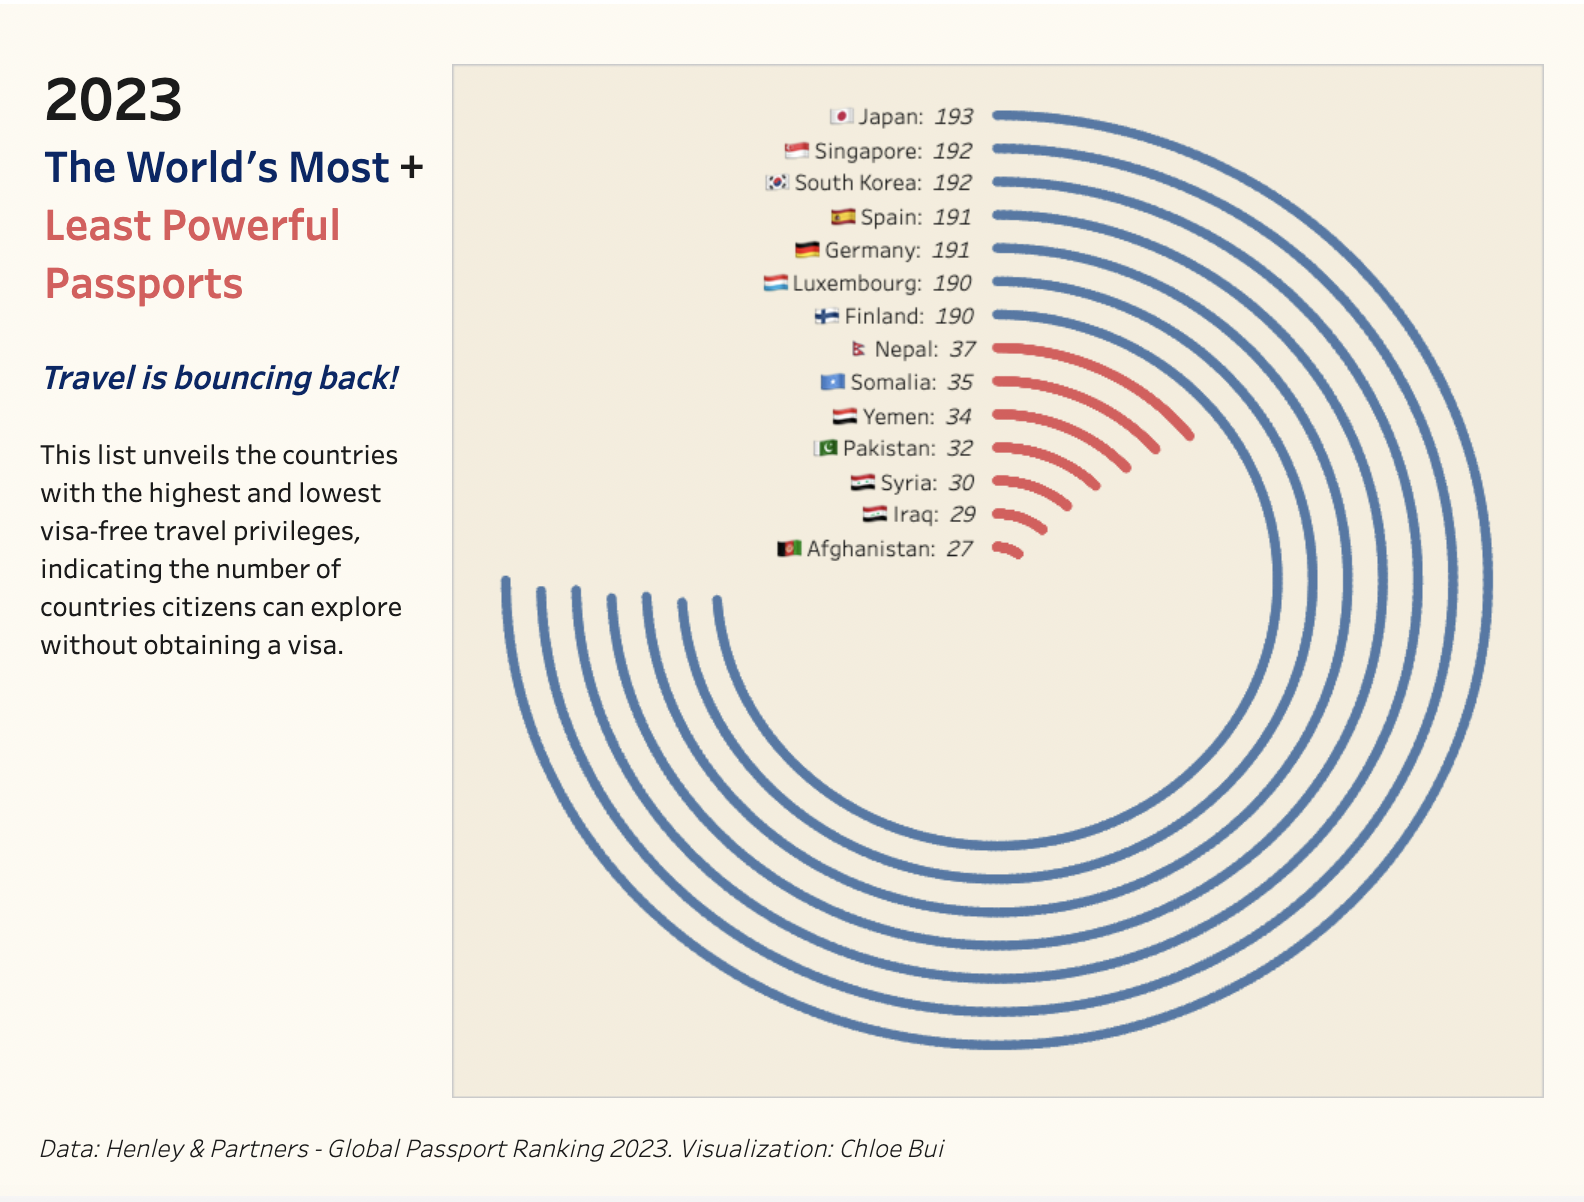
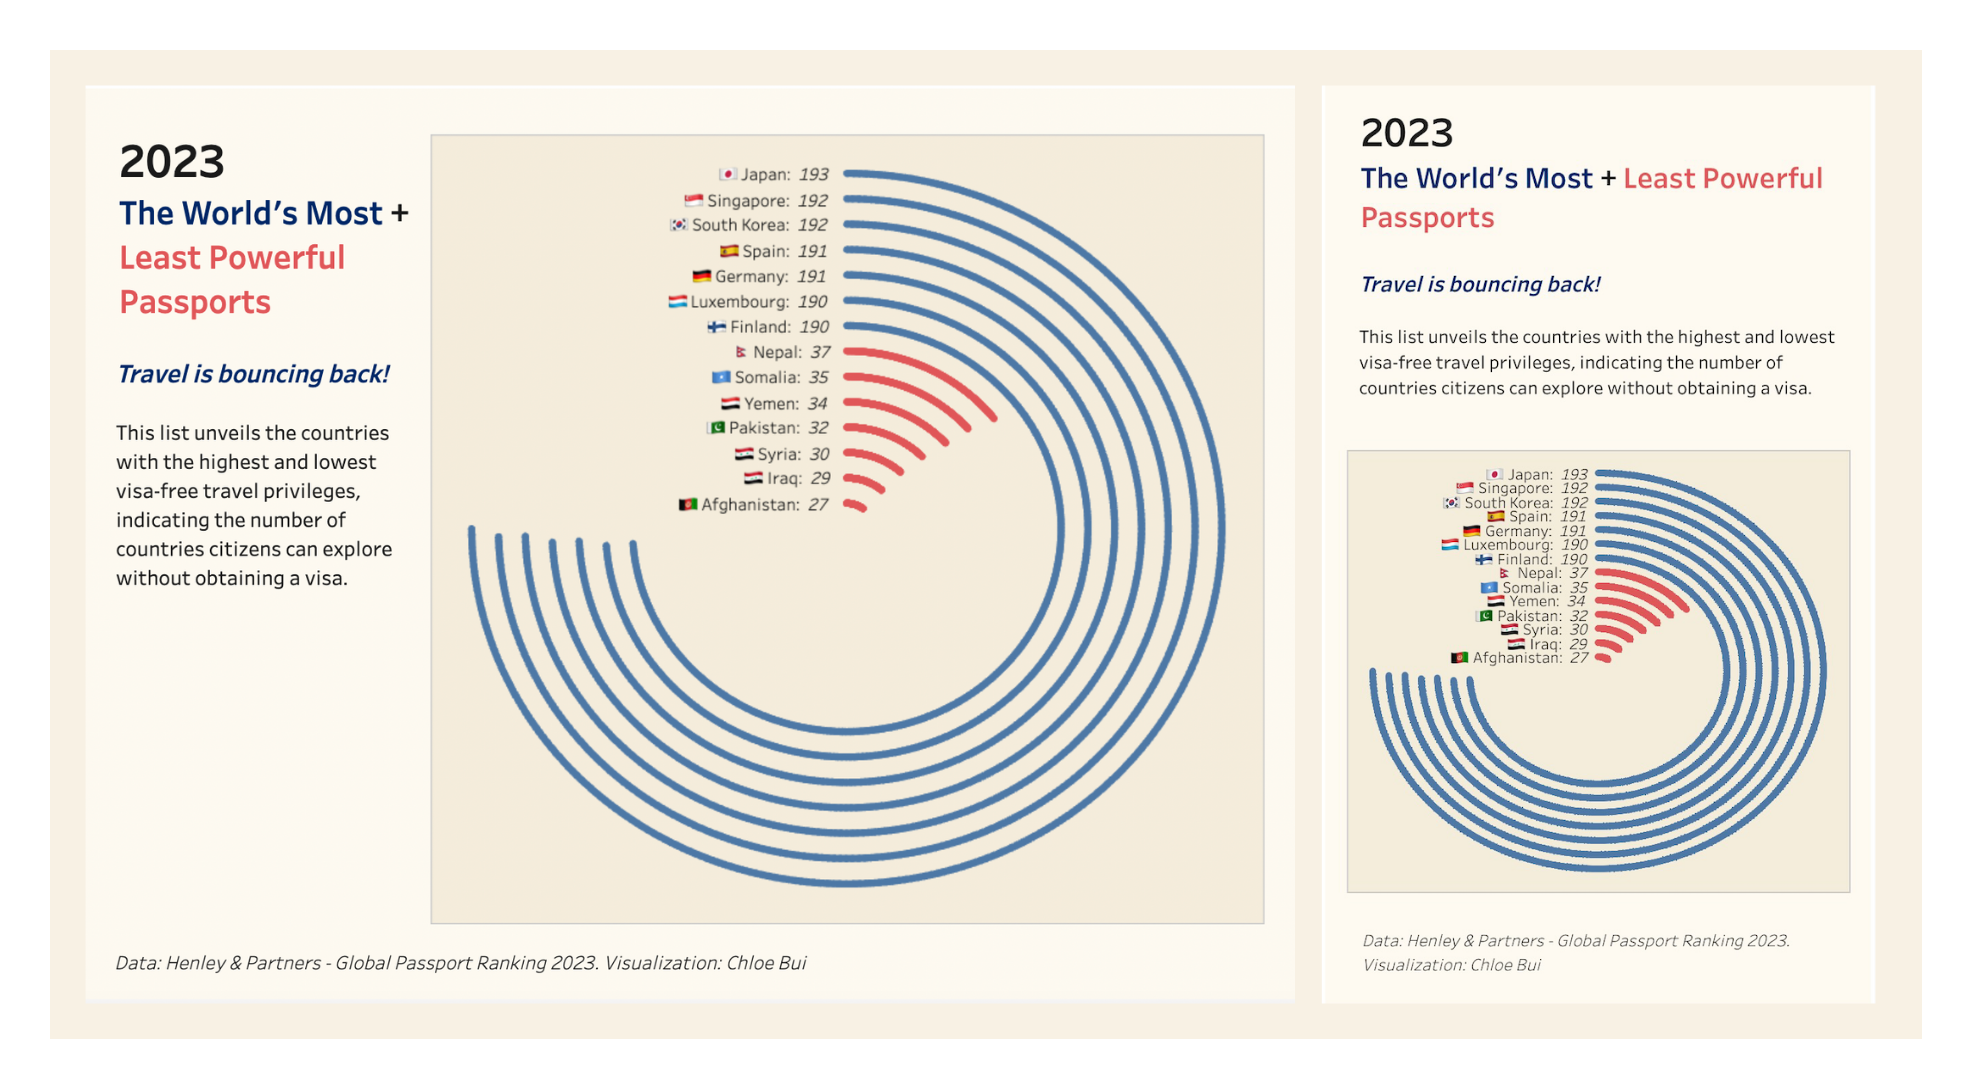
Replace photos, merge laptop and mobile views

diff --git a/index.md b/index.md
@@ -31,13 +31,7 @@ Tableau enables users to transform data into impactful visualizations, empowerin
 
 The visualization below, powered by Tableau, presents the visa-free access of different countries in 2023, based on the data provided by Henley & Partners.
 
-***Laptop View:***
-
 <img src="images/most_powerful_passport.png?raw=true" atl="Laptop View" />
-
-***Phone View:***
-
-<img src="images/most_powerful_passport_phone.png?raw=true" atl="Phone View" />
 
 [View Viz: The most & least powerful passports 2023](https://public.tableau.com/app/profile/bui.chloe/viz/2023TheWorldPassports_16872502465270/Finaldashboard?publish=yes)
 
